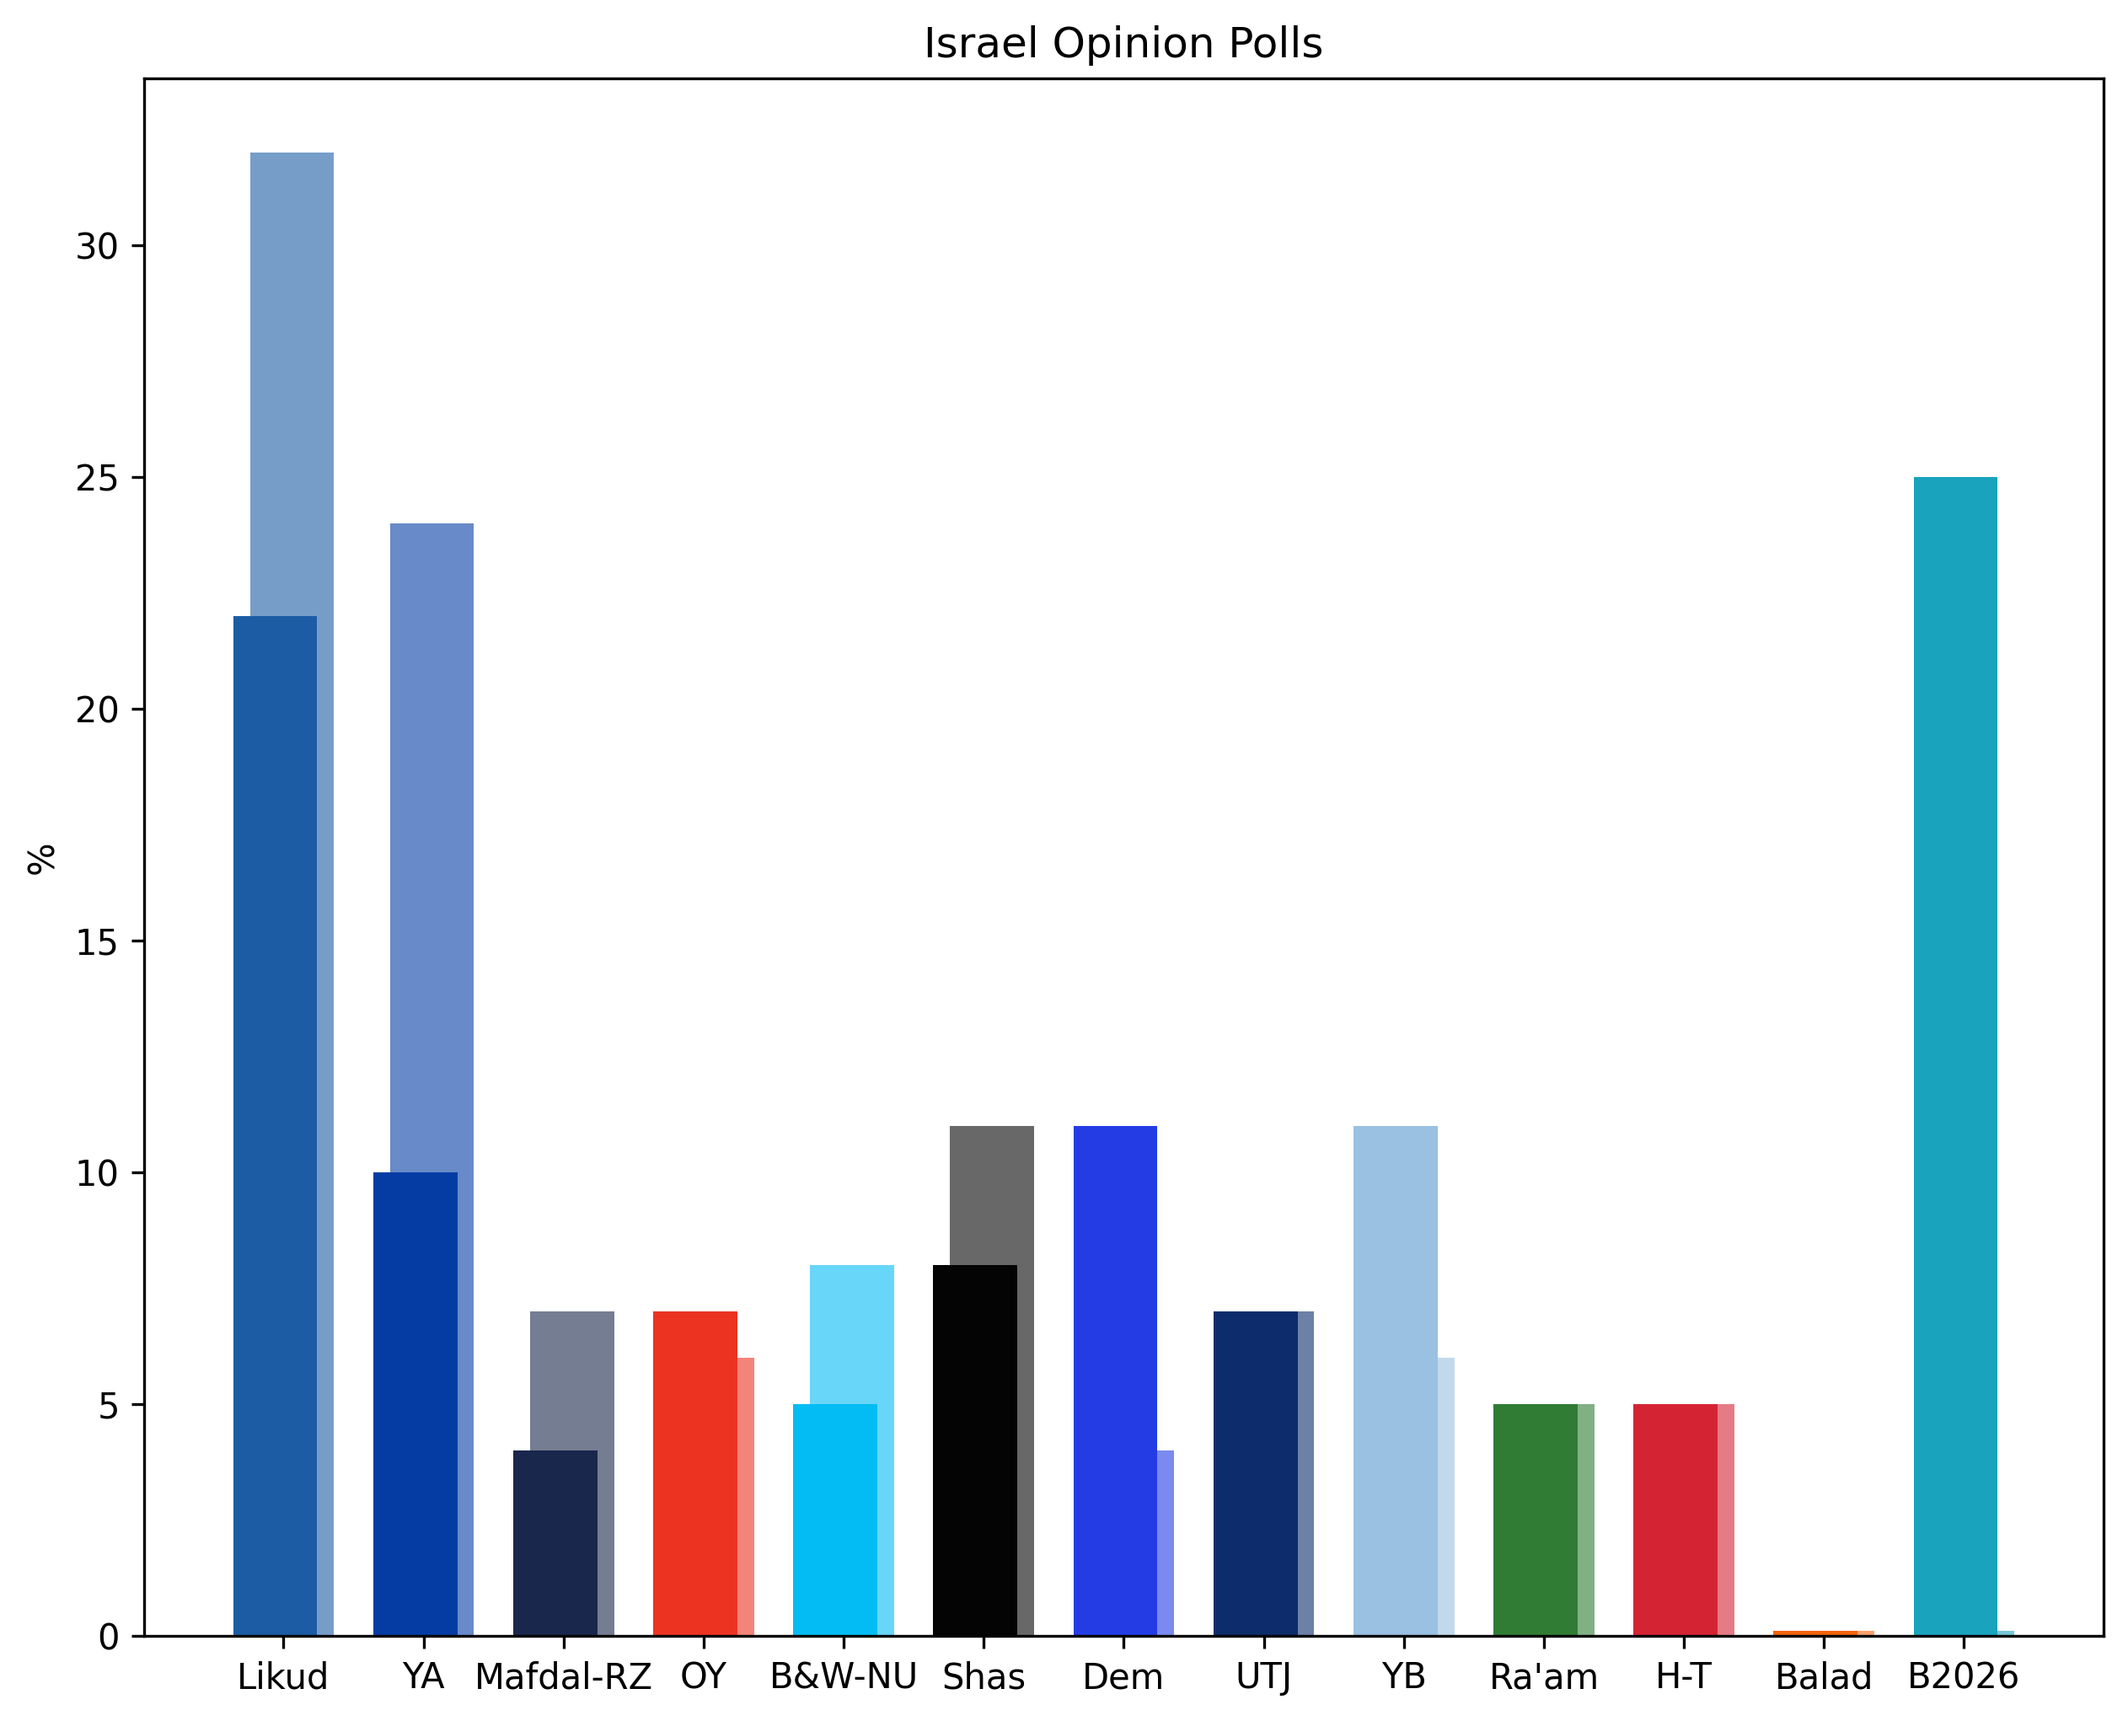
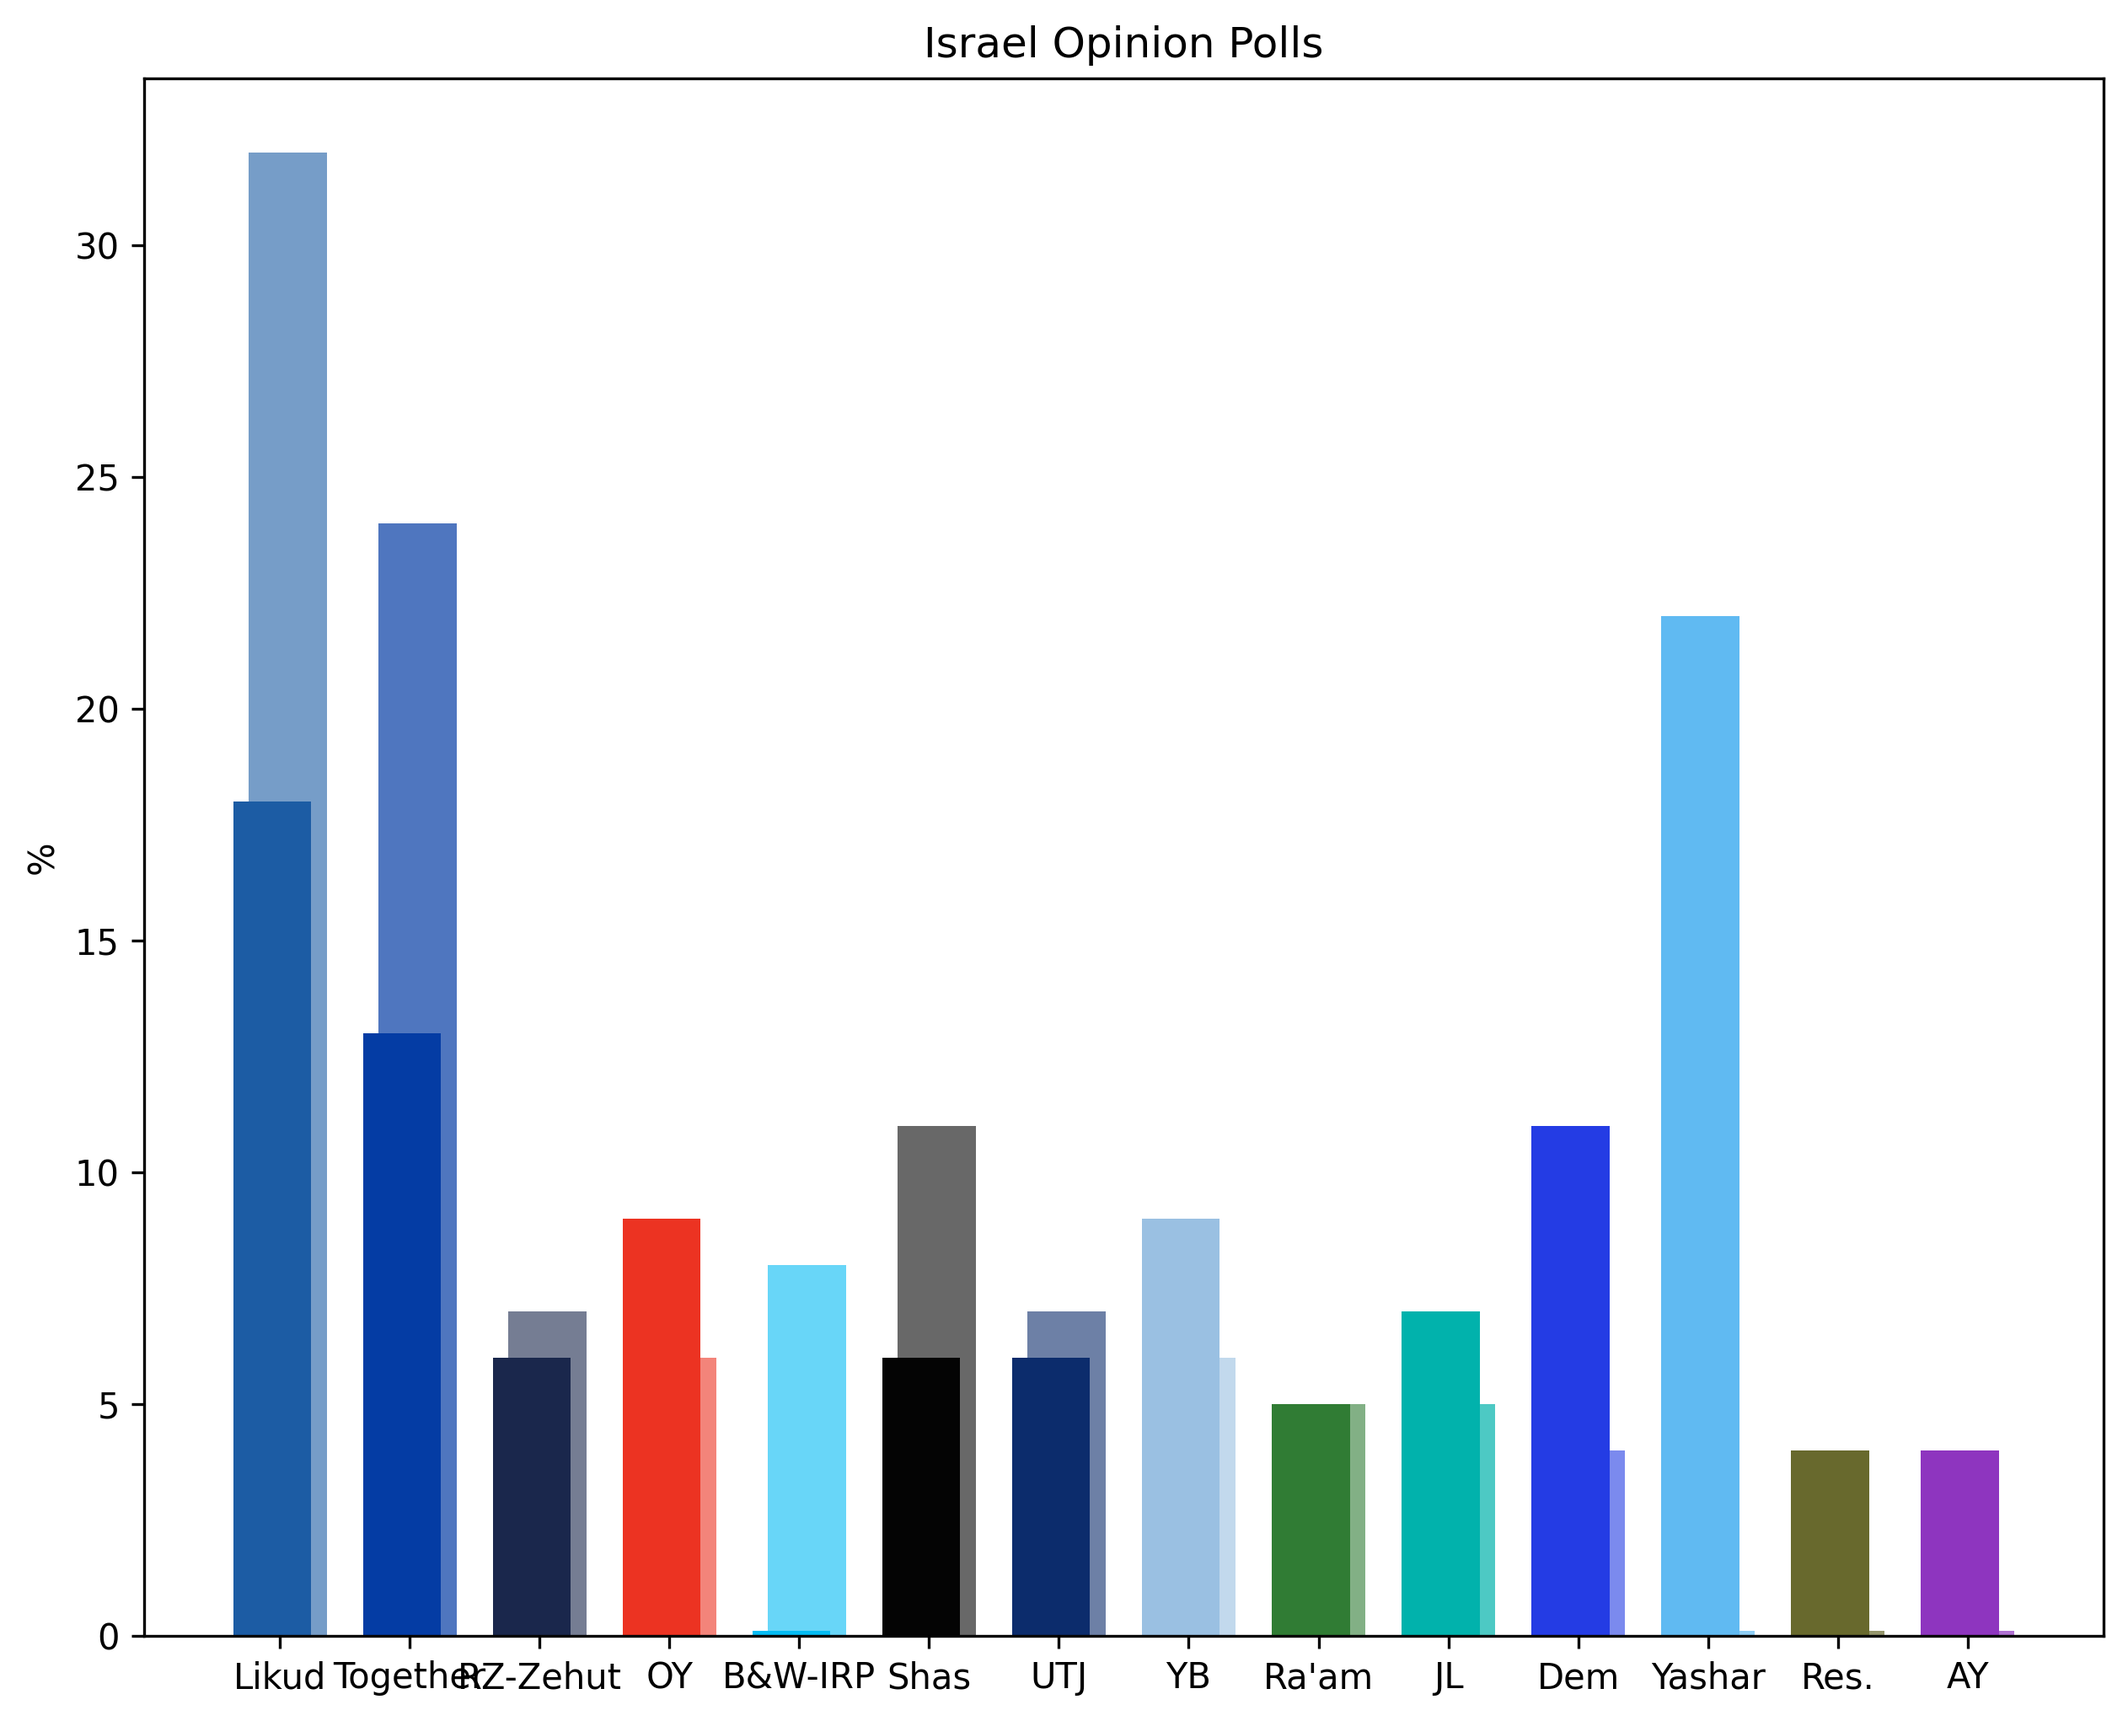
Updated Israel

Changed region(s): [[0.0927, 0.2777, 0.9576, 0.9873]]

diff --git a/Asia/MiddleEast/Israel.py b/Asia/MiddleEast/Israel.py
@@ -1,19 +1,19 @@
 import matplotlib.pyplot as plt
 import numpy as np
 
-parties = ['Likud', 'YA', 'Mafdal-RZ', 'OY', 'B&W-NU', 'Shas', 'Dem', 'UTJ', 'YB', "Ra'am", 'H-T', 'Balad', 'B2026']
-polling_2025 = [22, 10, 4, 7, 5, 8, 11, 7, 11, 5, 5, 0.1, 25]
-election_2022 = [32, 24, 7, 6, 8, 11, 4, 7, 6, 5, 5, 0.1, 0.1]
+parties = ['Likud', 'Together', 'RZ-Zehut', 'OY', 'B&W-IRP', 'Shas', 'UTJ', 'YB', "Ra'am", 'JL', 'Dem', 'Yashar', 'Res.', 'AY']
+polling_2026 = [18, 13, 6, 9, 0.1, 6, 6, 9, 5, 7, 11, 22, 4, 4]
+election_2022 = [32, 24, 7, 6, 8, 11, 7, 6, 5, 5, 4, 0.1, 0.1, 0.1]
 
-poll_colors = ['#1c5ca4', '#043ca4', '#1a274c', '#ec3322', '#04bcf4', '#040404', '#243ce4', '#0c2c6c', '#9ac0e2', '#307c34', '#d42434', '#f4640c', '#19a3bd']
-election_colors = ['#769dc8', '#688ac8', '#757d93', '#f3847a', '#68d6f8', '#686868', '#7b8aee', '#6d80a6', '#c2d9ed', '#82b085', '#e57b85', '#f8a26d', '#75c7d7']
+poll_colors = ['#1c5ca4', '#043ca4', '#1a274c', '#ec3322', '#04bcf4', '#040404', '#0c2c6c', '#9ac0e2', '#307c34', '#01b2ac', '#243ce4', '#60baf2', '#68692d', '#8e35bf']
+election_colors = ['#769dc8', '#4f76bf', '#757d93', '#f3847a', '#68d6f8', '#686868', '#6d80a6', '#c2d9ed', '#82b085', '#4dc9c4', '#7b8aee', '#8fcef5', '#95966c', '#af71d2']
 
 x = np.arange(len(parties))
 width = 0.6
 
 fig, ax = plt.subplots(figsize=(10, 8))
 ax.bar(x + width/10, election_2022, width=width, color=election_colors, label='2022 Election')
-ax.bar(x - width/10, polling_2025, width=width, color=poll_colors, label='August 2025 Polling')
+ax.bar(x - width/10, polling_2026, width=width, color=poll_colors, label='October 2026 Polling')
 
 ax.set_ylabel('%')
 ax.set_xticks(x)
